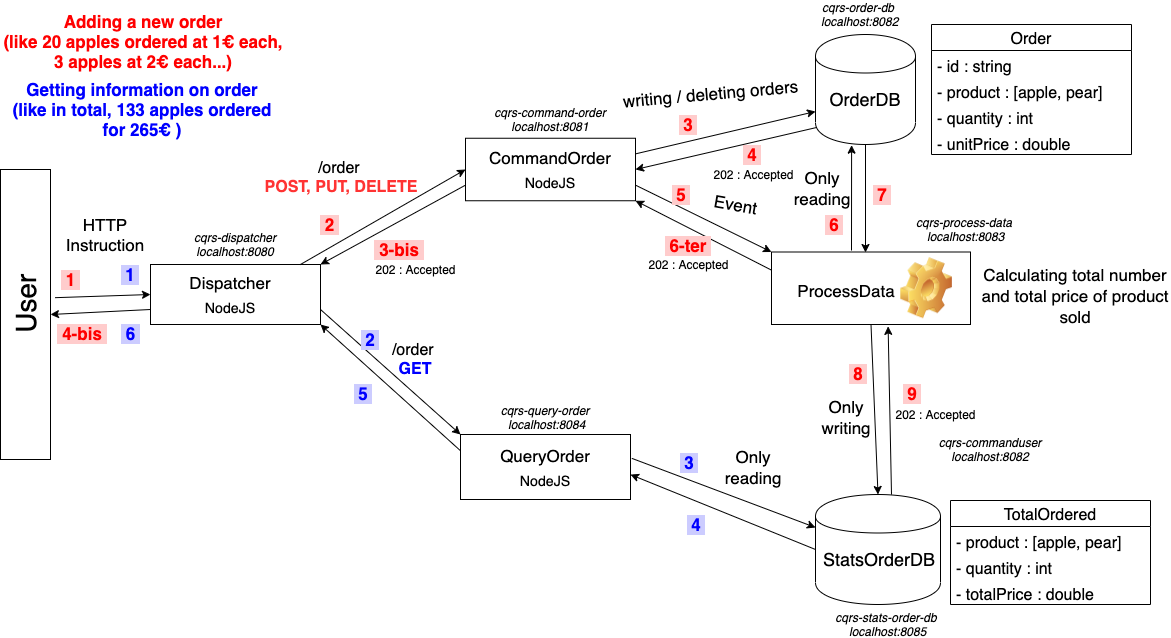
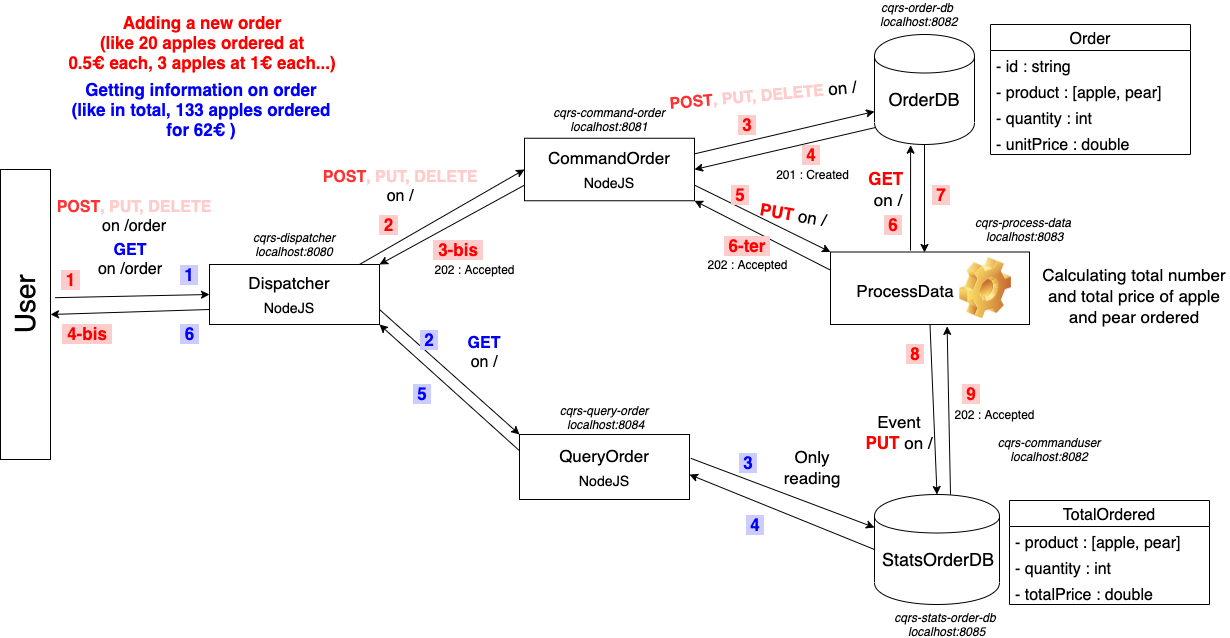
Cleaning

diff --git a/Dispatcher/src/routes/command-order.ts b/Dispatcher/src/routes/command-order.ts
@@ -10,7 +10,7 @@ commandOrderRoutes.post('/', async (req, res, _) =>
   //console.log(req);
   try
   {
-    console.log(`[Dispatcher] Request received`);
+    console.log(`[Dispatcher] POST on "/order" Request received`);
     console.log(`[Dispatcher] Request body :`, req.body);
     let response: AxiosResponse = await axios.post(commandOrderUrl, querystring.encode(req.body)); // req.body == "msg": "John"
     if (response.status == 202)
@@ -23,7 +23,27 @@ commandOrderRoutes.post('/', async (req, res, _) =>
     }
   } catch (exception)
   {
-    process.stderr.write(`[Dispatcher] ERROR in Dispatcher for commandOrderUrl ${commandOrderUrl}: ${exception}\n`);
-    return res.status(500).send(`[Dispatcher] ERROR in Dispatcher for commandOrderUrl ${commandOrderUrl}: ${exception}\n`);
+    process.stderr.write(`[Dispatcher] ERROR for commandOrderUrl ${commandOrderUrl}: ${exception}\n`);
+    return res.status(500).send(`[Dispatcher] ERROR for commandOrderUrl ${commandOrderUrl}: ${exception}\n`);
   }
+});
+
+commandOrderRoutes.get('/', async (_, res, ___) => // _ ,__, ___ = req, res, next
+{
+  console.log(`[Dispatcher] GET on "/" Request received`);
+  const title: string = `<h1>Welcome into a simple CQRS example</h1>
+  Hosted on Kubernetes and coded with NodeJS / TypeScript`;
+  const addTodoForm: string = `<h3>Add an order</h3> 
+  <form action="/order" method="POST">
+    <label for="product-select">Choose a product:</label>
+    <select name="product" id="product-select">
+      <option value="apple">Apple</option>
+      <option value="pear">Pear</option>
+    </select><br/>
+    <label for="quantity-select">Quantity:</label> <input id="quantity-select" name="quantity" type="number" min="1" step="1"/><br/>
+    <label for="price-select">Unit price:</label> <input id="price-select" name="unitPrice" type="number" min="0" step="any"/><br/>
+    <button type="submit">Add an order</button>
+  </form>`;
+  const seeTotalOrdered:string = `<h3><a href="`+queryOrderUrl+`">Total Ordered</a></h3>`
+  res.send(title + addTodoForm + seeTotalOrdered);
 });

diff --git a/Dispatcher/src/main.ts b/Dispatcher/src/main.ts
@@ -11,25 +11,6 @@ export const queryOrderUrl: string = process.env.QUERYORDERBURL || "http://local
 
 app.use('/order', commandOrderRoutes);
 
-app.get('/', async (_, res, ___) => // _ ,__, ___ = req, res, next
-{
-  const title: string = `<h1>Welcome into a simple CQRS example</h1>
-  Hosted on Kubernetes and coded with NodeJS / TypeScript`;
-  const addTodoForm: string = `<h3>Add an order</h3> 
-  <form action="/order" method="POST">
-    <label for="product-select">Choose a product:</label>
-    <select name="product" id="product-select">
-      <option value="apple">Apple</option>
-      <option value="pear">Pear</option>
-    </select><br/>
-    <label for="quantity-select">Quantity:</label> <input id="quantity-select" name="quantity" type="number" min="1" step="1"/><br/>
-    <label for="price-select">Unit price:</label> <input id="price-select" name="unitPrice" type="number" min="0" step="any"/><br/>
-    <button type="submit">Add an order</button>
-  </form>`;
-  const seeTotalOrdered:string = `<h3><a href="`+queryOrderUrl+`">Total Ordered</a></h3>`
-  res.send(title + addTodoForm + seeTotalOrdered);
-});
-
 const port: string = process.env.PORT || "8080";
 const nodeEnv: string = process.env.NODE_ENV || "development";
 app.listen(parseInt(port), function () 

diff --git a/CommandOrder/src/main.ts b/CommandOrder/src/main.ts
@@ -12,7 +12,7 @@ const processDataUrl: string = process.env.PROCESSDATAURL || "http://localhost:8
 
 app.post('/', async (req, res, __) => // _ = next
 {
-  console.log(`[CommandOrder] Request received`);
+  console.log(`[CommandOrder] POST on "/" Request received`);
   console.log(`[CommandOrder] Request body :`, req.body);
 
   try
@@ -29,7 +29,7 @@ app.post('/', async (req, res, __) => // _ = next
       }
       catch (exception)
       {
-        process.stderr.write(`[CommandOrder] ERROR in CommandOrder for processDataUrl ${processDataUrl}: ${exception}\n`);
+        process.stderr.write(`[CommandOrder] ERROR for processDataUrl ${processDataUrl}: ${exception}\n`);
       }
     }
     else
@@ -38,7 +38,7 @@ app.post('/', async (req, res, __) => // _ = next
     }
   } catch (exception)
   {
-    process.stderr.write(`[CommandOrder] ERROR in CommandOrder for orderDbUrl ${orderDbUrl}: ${exception}\n`);
+    process.stderr.write(`[CommandOrder] ERROR for orderDbUrl ${orderDbUrl}: ${exception}\n`);
     res.sendStatus(500);
   }
 });

diff --git a/OrderDB/src/main.ts b/OrderDB/src/main.ts
@@ -10,7 +10,7 @@ let orderDb: Array<Order> = Array<Order>();
 
 app.post('/', (req, res, _) => // _ = next
 {
-  console.log(`[OrderDB] POST Request received`);
+  console.log(`[OrderDB] POST on "/" Request received`);
   console.log(`[OrderDB] Request body :`, req.body);
   let newOrder: Order = Order.fromJson(req.body);
   console.log(`[OrderDB] New order :`, newOrder.toJson());
@@ -22,7 +22,7 @@ app.post('/', (req, res, _) => // _ = next
 
 app.get('/', (_, res, __) => // _ = next
 {
-  console.log(`[OrderDB] GET Request received`);
+  console.log(`[OrderDB] GET on "/" Request received`);
   console.log(`[OrderDB] orderDb : `, orderDb);
   res.send({"orderDb": orderDb});
 });

diff --git a/StatsOrderDb/src/main.ts b/StatsOrderDb/src/main.ts
@@ -9,7 +9,7 @@ let totalOrdered: TotalOrdered = new TotalOrdered({});
 
 app.put('/', (req, res, _) => // _ = next
 {
-  console.log(`[StatsOrderDb] PUT Request received`);
+  console.log(`[StatsOrderDb] PUT on "/" Request received`);
   console.log(`[StatsOrderDb] Request body`, req.body);
   totalOrdered = TotalOrdered.fromJson(req.body);
   res.sendStatus(202);

diff --git a/QueryOrder/src/main.ts b/QueryOrder/src/main.ts
@@ -10,7 +10,7 @@ const statsOrderDbUrl: string = process.env.STATSORDERDBURL || "http://localhost
 
 app.get('/', async (_, res, __) => // _ = next
 {
-  console.log(`[QueryOrder] GET Request received`);
+  console.log(`[QueryOrder] GET on "/" Request received`);
   try
   {
     let responseStatsOrderDbUrl: AxiosResponse = await axios.get(statsOrderDbUrl);

diff --git a/ProcessData/src/main.ts b/ProcessData/src/main.ts
@@ -13,7 +13,7 @@ const statsOrderDbUrl: string = process.env.STATSORDERDBURL || "http://localhost
 
 app.put('/', async (_, res, __) => // _ = next
 {
-  console.log(`[ProcessData] Request received`);
+  console.log(`[ProcessData] PUT on "/" Request received`);
   res.sendStatus(202);
   try
   {
